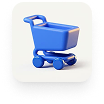
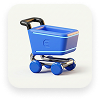
feat: create input search

diff --git a/src/shared/components/input-search.tsx b/src/shared/components/input-search.tsx
@@ -1,0 +1,33 @@
+import Fontisto from "@expo/vector-icons/Fontisto";
+import { useForm } from "react-hook-form";
+import { TextInputProps } from "react-native";
+import { Input } from "./forms";
+
+type SearchInputDataTypes = {
+  search: string;
+};
+
+type InputSearchProps = TextInputProps & {
+  onSearch?: (value: string) => void;
+};
+
+export const InputSearch = ({ onSearch, ...rest }: InputSearchProps) => {
+  const { control, handleSubmit } = useForm<SearchInputDataTypes>();
+
+  const handleSearch = (data: SearchInputDataTypes) => {
+    onSearch?.(data.search);
+  };
+
+  return (
+    <Input
+      name="search"
+      control={control}
+      returnKeyType="search"
+      onSubmitEditing={handleSubmit(handleSearch)}
+      iconLeft={<Fontisto name="search" size={18} color="#737687" />}
+      placeholderTextColor="#515B70"
+      className="text-color_gray"
+      {...rest}
+    />
+  );
+};

diff --git a/src/shared/components/container.tsx b/src/shared/components/container.tsx
@@ -1,6 +1,6 @@
 import { StatusBar } from "expo-status-bar";
 import { ReactNode } from "react";
-import { KeyboardAvoidingView, Platform, ScrollView } from "react-native";
+import { KeyboardAvoidingView, Platform, ScrollView, View } from "react-native";
 import { SafeAreaView } from "react-native-safe-area-context";
 
 type ContainerProps = {
@@ -9,22 +9,23 @@ type ContainerProps = {
 
 export const Container = ({ children }: ContainerProps) => {
   return (
-    <SafeAreaView className="flex-1 bg-color_container p-5 gap-5">
+    <SafeAreaView
+      className="flex-1 bg-color_container"
+      edges={["left", "right", "bottom"]}
+    >
       <StatusBar style="dark" />
       <KeyboardAvoidingView
         style={{ flex: 1 }}
         behavior={Platform.OS === "ios" ? "padding" : "height"}
       >
         <ScrollView
-          contentContainerStyle={{
-            flexGrow: 1,
-            justifyContent: "center",
-            padding: 20,
-            gap: 20,
-          }}
+          scrollEnabled
+          contentContainerStyle={{ flexGrow: 1 }}
+          automaticallyAdjustKeyboardInsets
+          scrollEventThrottle={16}
           keyboardShouldPersistTaps="handled"
         >
-          {children}
+          <View className="flex-1 px-5 py-4 gap-6">{children}</View>
         </ScrollView>
       </KeyboardAvoidingView>
     </SafeAreaView>

diff --git a/src/features/shopping/screens/home/home.view.tsx b/src/features/shopping/screens/home/home.view.tsx
@@ -1,12 +1,14 @@
 import { Container } from "@/src/shared/components";
-import { Text, View } from "react-native";
+import { InputSearch } from "@/src/shared/components/input-search";
 
 export default function Home() {
+  const handleTeste = (data: string) => {
+    console.log({ check: data });
+  };
+
   return (
     <Container>
-      <View className="flex-1 justify-center items-center">
-        <Text>Home</Text>
-      </View>
+      <InputSearch onSearch={handleTeste} placeholder="Buscar produtos" />
     </Container>
   );
 }

diff --git a/src/shared/components/navigation/components/headers/header-profile/index.tsx b/src/shared/components/navigation/components/headers/header-profile/index.tsx
@@ -5,12 +5,12 @@ import { MiniCart } from "./mini-cart";
 
 export const Header = () => {
   const insets = useSafeAreaInsets();
-  const HEADER_TOP_OFFSET = 2;
+  const HEADER_TOP_OFFSET = 7;
   const user = useAuthStore((state) => state.user);
 
   return (
     <View
-      className="flex-row justify-between items-center px-6 py-4 bg-white"
+      className="flex-row justify-between items-center px-4 py-4 bg-white"
       style={{
         paddingTop: insets.top + HEADER_TOP_OFFSET,
       }}

diff --git a/src/features/auth/components/login-header.tsx b/src/features/auth/components/login-header.tsx
@@ -3,7 +3,7 @@ import { Image, Text, View } from "react-native";
 
 export const LoginHeader = () => {
   return (
-    <View className="flex-1 items-center pt-2">
+    <View className="flex-1 items-center pt-4">
       <Image source={cart} />
       <View className="gap-1 items-center">
         <Text className="text-color_black font-inter_bold text-3xl">

diff --git a/src/shared/components/navigation/components/headers/header-title/index.tsx b/src/shared/components/navigation/components/headers/header-title/index.tsx
@@ -10,7 +10,7 @@ type HeaderTitleProps = {
 
 export const HeaderTitle = ({ title }: HeaderTitleProps) => {
   const insets = useSafeAreaInsets();
-  const HEADER_TOP_OFFSET = 2;
+  const HEADER_TOP_OFFSET = 7;
 
   const handleGoBack = () => router.back();
 

diff --git a/src/styles/colors.ts b/src/styles/colors.ts
@@ -2,5 +2,7 @@ export const colors = {
   color_container: "#F8F9FA",
   color_black: "#191C1D",
   color_gray: "#434655",
+  color_gray_light: "#737687",
   color_blue: "#3366FF",
+  color_slate: "#515B70",
 };

diff --git a/src/features/auth/components/login-form.tsx b/src/features/auth/components/login-form.tsx
@@ -22,7 +22,6 @@ export const LoginForm = () => {
 
   const onSubmit = (data: FormDataTypes) => {
     Keyboard.dismiss();
-    console.log(data);
     login(data);
   };
 

diff --git a/src/features/auth/screens/login/useAuth.model.ts b/src/features/auth/screens/login/useAuth.model.ts
@@ -12,7 +12,6 @@ export const useAuth = () => {
     onSuccess: async (data) => {
       await saveToken(data.accessToken);
       setUser(data);
-      console.log({ sucesso: true, data });
       router.navigate("/success");
     },
     onError: (error) => {